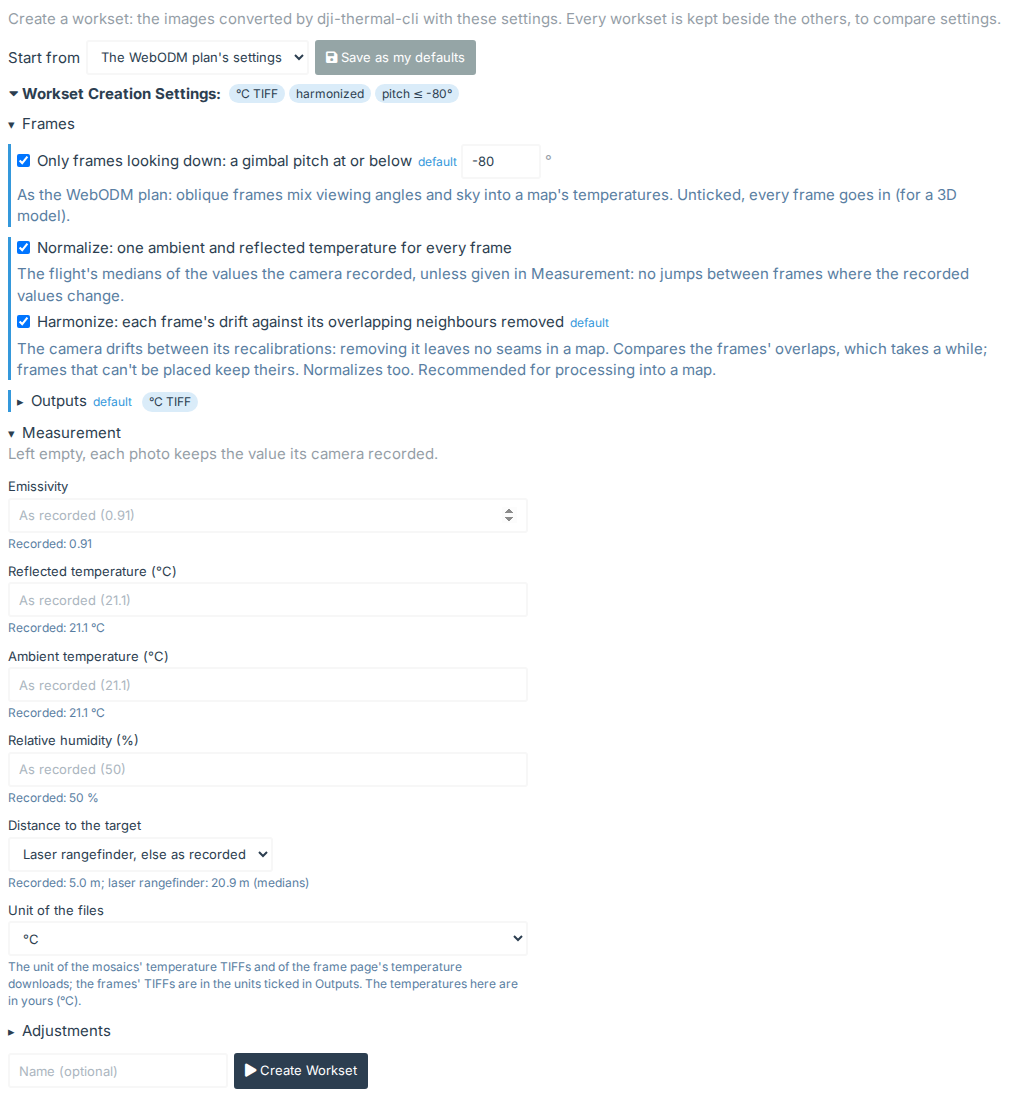
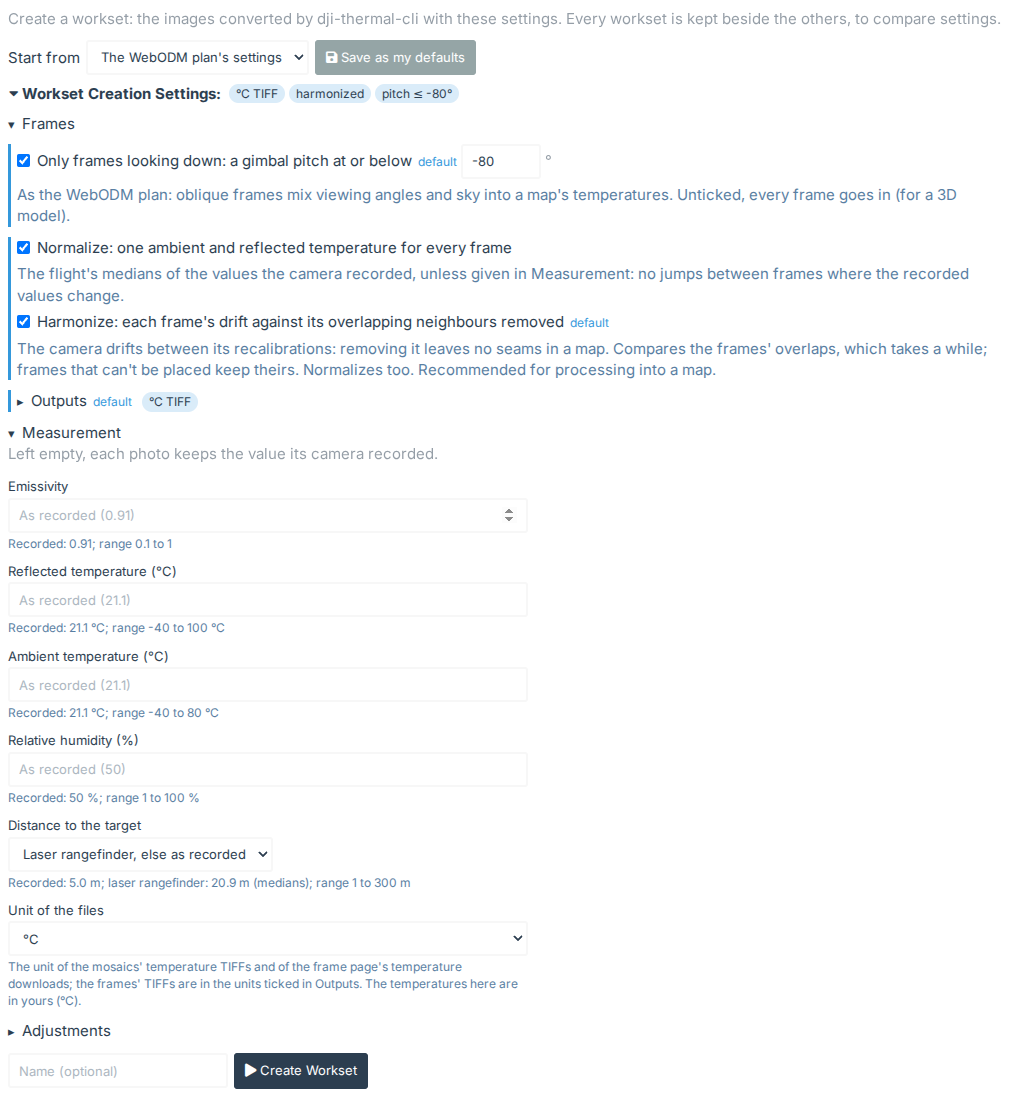
Workset Creation Settings: the cameras' ranges shown, and a value outside them refused before converting (R30)
A distance past a camera's range (500 m on an M4T, 1 to 300 m) was accepted,
then dji-thermal-cli refused every frame. The dataset now carries the ranges
its cameras accept (one frame described per camera, the narrowest), the form
shows them beside each value and refuses on Create Workset, and the server
checks them when a workset or a thermal task's conversion starts.

diff --git a/dji-thermal/public/conversions.js b/dji-thermal/public/conversions.js
@@ -64,9 +64,40 @@
         return blank(v) ? "Not recorded" : "Recorded: " + core.formatNumber(v, digits === undefined ? 1 : digits, unit || "");
     }
 
+    // The settings the photos' cameras give a range for (the server's conversions.RANGED), and their names
+    var RANGED = [["distance", "Distance to the target"]].concat(MEASUREMENTS.map(function (m) { return [m.key, m.label]; }));
+    // A setting's range as the frames' cameras accept it (ranges: the dataset's, temperatures in °C), in unit (a
+    // temperature's; the user's when not given): "1 to 300 m", "-40 to 100 °C"; "" without one
+    function rangeText(key, ranges, unit) {
+        var r = (ranges || {})[key];
+        if (!r) return "";
+        var m = MEASUREMENTS.filter(function (x) { return x.key === key; })[0] || {};
+        if (m.temperature) {
+            var to = unit || core.userUnit();
+            return num(core.convertTemp(r[0], "C", to), 1) + " to " + num(core.convertTemp(r[1], "C", to), 1) + " " + core.unitSymbol(to);
+        }
+        return num(r[0], 2) + " to " + num(r[1], 2) + (key === "distance" ? " m" : m.unit ? " " + m.unit : "");
+    }
+
+    // The first measurement value (settings as read, in their unit) outside what the frames' cameras accept, in words:
+    // dji-thermal-cli would refuse every frame of those cameras; null when all are in range or there are no ranges
+    function rangeProblem(s, ranges) {
+        for (var i = 0; i < RANGED.length; i++) {
+            var key = RANGED[i][0], r = (ranges || {})[key], v = s[key];
+            if (!r || typeof v !== "number") continue;
+            var m = MEASUREMENTS.filter(function (x) { return x.key === key; })[0] || {};
+            var c = m.temperature ? core.convertTemp(v, s.unit || "C", "C") : v;
+            if (c < r[0] - 1e-6 || c > r[1] + 1e-6) {
+                return RANGED[i][1] + " is outside what the photos' cameras accept: " + rangeText(key, ranges) + ".";
+            }
+        }
+        return null;
+    }
+
     // The settings form, its temperatures in the user's unit. meta: {products, palettes}; rec: recorded(analysis), in °C
-    function formHtml(s, meta, rec) {
+    function formHtml(s, meta, rec, ranges) {
         rec = rec || {};
+        var withRange = function (text, key) { var r = rangeText(key, ranges); return r ? text + "; range " + r : text; };
         var unit = core.unitOf(s.unit || core.userUnit()), u = core.unitSymbol(core.userUnit());
         var shown = settingsIn(s, unit, core.userUnit());
         TEMPERATURES.forEach(function (k) { if (typeof shown[k] === "number") shown[k] = Math.round(shown[k] * 100) / 100; });
@@ -93,13 +124,13 @@
                 var sel = fixed ? m[0] === "fixed" : m[0] === s.distance;
                 return '<option value="' + m[0] + '"' + (sel ? " selected" : "") + ">" + esc(m[1]) + "</option>";
             }).join("") + "</select>" + numberInput("distance", fixed ? s.distance : "", ' step="0.1" min="0.1" placeholder="m"' + (fixed ? "" : " hidden")) +
-            "</div>", esc(distanceHelp));
+            "</div>", esc(withRange(distanceHelp, "distance")));
         var measurement = MEASUREMENTS.map(function (m) {
                 var hint = m.temperature ? core.convertTemp(rec[m.hint], "C") : rec[m.hint];
                 var label = m.label + (m.temperature ? " (" + u + ")" : m.unit ? " (" + m.unit + ")" : "");
                 var placeholder = blank(hint) ? "As recorded" : "As recorded (" + core.formatNumber(hint, m.digits === undefined ? 1 : m.digits) + ")";
                 return field(label, numberInput(m.key, s[m.key], ' step="' + (m.step || "any") + '" placeholder="' + esc(placeholder) + '"'),
-                    esc(recordedText(hint, m.digits, m.temperature ? " " + u : m.unit ? " " + m.unit : "")));
+                    esc(withRange(recordedText(hint, m.digits, m.temperature ? " " + u : m.unit ? " " + m.unit : ""), m.key)));
             }).join("") + distance +
             field("Unit of the files", '<select class="form-control input-sm" name="unit">' + ["C", "F", "K"].map(function (k) {
                 return '<option value="' + k + '"' + (k === unit ? " selected" : "") + ">" + UNIT_LABELS[k] + "</option>";
@@ -903,7 +934,7 @@
         function renderForm() {
             var form = root$("ta-convert-form");
             var sections = built ? [].map.call(form.querySelectorAll("details.ta-section"), function (d) { return d.open; }) : null;
-            form.innerHTML = formHtml(settings, meta, recorded(dataset && dataset.analysis));
+            form.innerHTML = formHtml(settings, meta, recorded(dataset && dataset.analysis), dataset && dataset.ranges);
             drawnWith = dataset && dataset.analyzed_at;
             if (sections) [].forEach.call(form.querySelectorAll("details.ta-section"), function (d, i) { d.open = sections[i]; });
             var from = root$("ta-convert-from");
@@ -1406,7 +1437,8 @@
 
         root$("ta-convert-start").addEventListener("click", function () {
             var s = readForm(root$("ta-convert-form"));
-            if (formProblem(s)) return message(esc(formProblem(s)), "text-danger");
+            var problem = formProblem(s) || rangeProblem(s, dataset && dataset.ranges);
+            if (problem) return message(esc(problem), "text-danger");
             var btn = root$("ta-convert-start");
             btn.disabled = true;
             send(base.replace(/\/$/, ""), "POST", {name: root$("ta-convert-name").value.trim(), settings: s})
@@ -1625,7 +1657,7 @@
         return {update: update, usePlan: usePlan, useSettings: useSettings};
     }
 
-    var api = {recorded: recorded, settingsIn: settingsIn, formHtml: formHtml, readForm: readForm, formProblem: formProblem, planSettings: planSettings, statusLabel: statusLabel,
+    var api = {recorded: recorded, settingsIn: settingsIn, formHtml: formHtml, readForm: readForm, formProblem: formProblem, rangeProblem: rangeProblem, rangeText: rangeText, planSettings: planSettings, statusLabel: statusLabel,
                differences: differences, chipsHtml: chipsHtml, markForm: markForm, resetSetting: resetSetting,
                mosaicHtml: mosaicHtml, mapUrl: mapUrl, actionsHtml: actionsHtml, listHtml: listHtml, mosaicsHtml: mosaicsHtml, mosaicDetailHtml: mosaicDetailHtml, parentHtml: parentHtml, taskStatusLabel: taskStatusLabel, tasksHtml: tasksHtml,
                taskHtml: taskHtml, readTaskForm: readTaskForm, optionsFormHtml: optionsFormHtml, readOptions: readOptions, skipReasons: skipReasons, resultRows: resultRows, resultsHtml: resultsHtml,

diff --git a/dji-thermal/public/__tests__/analyzer.test.js b/dji-thermal/public/__tests__/analyzer.test.js
@@ -1530,6 +1530,26 @@ describe("a dataset's conversions", () => {
         expect(conversions.formProblem(Object.assign({}, read, {range_max: null}))).toMatch(/colour range/);
     });
 
+    it("shows the range the frames' cameras accept beside each value, and refuses one outside it before asking the server", () => {
+        const ranges = {distance: [1, 300], humidity: [1, 100], emissivity: [0.1, 1], reflected_temp: [-40, 100], ambient_temp: [-40, 80]};
+        document.body.innerHTML = '<div id="f">' + conversions.formHtml(DEFAULTS, PREFERENCES, {}, ranges) + "</div>";
+        const text = document.getElementById("f").textContent;
+        expect(text).toContain("range 1 to 300 m");
+        expect(text).toContain("range -40 to 80 °C");
+        expect(text).toContain("range 0.1 to 1");
+        window.localStorage.setItem("unit_system", "imperial");
+        expect(conversions.rangeText("ambient_temp", ranges)).toBe("-40 to 176 °F");
+        window.localStorage.clear();
+        const s = Object.assign({}, DEFAULTS, {unit: "C"});
+        expect(conversions.rangeProblem(Object.assign({}, s, {distance: 300}), ranges)).toBe(null);
+        expect(conversions.rangeProblem(Object.assign({}, s, {distance: 500}), ranges))
+            .toBe("Distance to the target is outside what the photos' cameras accept: 1 to 300 m.");
+        // Temperatures in the settings' unit: 194 °F is 90 °C
+        expect(conversions.rangeProblem(Object.assign({}, s, {unit: "F", ambient_temp: 194}), ranges)).toMatch(/^Ambient temperature is outside/);
+        expect(conversions.rangeProblem(Object.assign({}, s, {distance: 500}), {})).toBe(null);
+        expect(conversions.rangeProblem(Object.assign({}, s, {distance: 500}), undefined)).toBe(null);
+    });
+
     it("reads Harmonize as Normalize too, and a workset saved before Harmonize existed as harmonized when it normalized", () => {
         document.body.innerHTML = '<div id="f">' + conversions.formHtml(Object.assign({}, DEFAULTS, {harmonize: true}), PREFERENCES, {}) + "</div>";
         expect(conversions.readForm(document.getElementById("f"))).toMatchObject({normalize: true, harmonize: true});

diff --git a/dji-thermal/conversions.py b/dji-thermal/conversions.py
@@ -18,6 +18,7 @@ images. DJI's own SDK measures them when one is
 installed (sdk.current()).
 """
 
+import functools
 import math
 import os
 import shutil
@@ -304,6 +305,63 @@ def flight_medians(root, jpegs):
             if recorded.get(k) is not None:
                 v.append(float(recorded[k]))
     return tuple(float(statistics.median(v)) if v else None for v in values.values())
+
+
+RANGED = ('distance', 'humidity', 'emissivity', 'reflected_temp', 'ambient_temp')     # converter.describe's names
+
+
+@functools.lru_cache(maxsize=32)
+def _camera_ranges(root, stamp, paths):
+    found = {}
+    for path in paths:
+        try:
+            info = converter.describe(os.path.join(root, path))
+        except Exception:  # noqa: BLE001, S112 - a frame it can't read: its camera left out, as converting skips it
+            continue
+        for name, (low, high) in info['ranges'].items():
+            if name in RANGED:
+                was = found.get(name)
+                found[name] = [max(was[0], low), min(was[1], high)] if was else [float(low), float(high)]
+    return found
+
+
+def camera_ranges(task):
+    """
+    The values every camera of the dataset's thermal frames accepts, as its analysis lists them: {setting: [lowest,
+    highest]} (the narrowest when there are several cameras; temperatures in °C), one frame described per camera; {}
+    before an analysis. A setting no camera uses is left out.
+    """
+    rows = (datasets.analysis(task) or {}).get('files') or []
+    first = {}
+    for r in rows:
+        if r.get('kind') == 'thermal' and r.get('path'):
+            first.setdefault((r.get('model'), r.get('width'), r.get('height')), r['path'])
+    if not first:
+        return {}
+    return dict(_camera_ranges(datasets.images_path(task), datasets.analysis_stamp(task), tuple(sorted(first.values()))))
+
+
+def range_errors(settings, ranges):
+    """{setting: message} for the measurement values outside what the cameras accept (camera_ranges): dji-thermal-cli
+    would refuse every frame of those cameras. The message gives the range in the settings' unit."""
+    from .inspector import to_celsius
+    unit = settings.get('unit') or 'C'
+    errors = {}
+    for name in RANGED:
+        value, limits = settings.get(name), ranges.get(name)
+        if not limits or not isinstance(value, (int, float)) or isinstance(value, bool):
+            continue
+        celsius = to_celsius(float(value), unit) if name in TEMPERATURES else float(value)
+        if limits[0] - 1e-6 <= celsius <= limits[1] + 1e-6:
+            continue
+        low, high = limits
+        if name in TEMPERATURES:
+            shown = {'C': (low, high), 'F': (low * 1.8 + 32, high * 1.8 + 32), 'K': (low + 273.15, high + 273.15)}[unit]
+            text = "{:g} to {:g} {}".format(round(shown[0], 2), round(shown[1], 2), {'C': '°C', 'F': '°F', 'K': 'K'}[unit])
+        else:
+            text = "{:g} to {:g}{}".format(low, high, {'distance': ' m', 'humidity': ' %'}.get(name, ''))
+        errors[name] = "Outside what the photos' cameras accept: {}".format(text)
+    return errors
 
 
 def compact(report, root, out_dir, version="", thermal=None, damaged=None):

diff --git a/dji-thermal/tests/test_analyzer.py b/dji-thermal/tests/test_analyzer.py
@@ -671,6 +671,26 @@ class TestConversions(AnalyzerTestCase):
         self.assertIn("emissivity", res.data)
         self.assertEqual(conversions.ids(task), [])
 
+    @skip_without("DJI_THERMAL_FLIGHT_DIR")
+    def test_a_value_the_frames_cameras_refuse_starts_no_workset_and_the_dataset_says_their_ranges(self):
+        task = self.create()
+        with contextlib.ExitStack() as stack:
+            self.upload(task, [stack.enter_context(open(f, "rb")) for f in flight_frames(2)])
+        self.assertEqual(conversions.camera_ranges(task), {})       # before the analysis: nothing to check against
+        self.client.post("{}/{}/analyze".format(API, task.id))
+        ranges = self.client.get("{}/{}".format(API, task.id)).data["ranges"]
+        self.assertEqual(ranges["distance"], [1.0, 300.0])           # the M4T's
+        self.assertEqual(ranges["ambient_temp"], [-40.0, 80.0])
+        res = self.convert(task, {"distance": 500})
+        self.assertEqual(res.status_code, status.HTTP_400_BAD_REQUEST)
+        said = res.data["distance"]
+        self.assertEqual(str(said[0] if isinstance(said, list) else said), "Outside what the photos' cameras accept: 1 to 300 m")
+        self.assertEqual(conversions.ids(task), [])
+        # A temperature, in the settings' unit: 90 °C is 194 °F, above the M4T's 80 °C
+        errors = conversions.range_errors({"unit": "F", "ambient_temp": 194.0, "distance": 300.0}, ranges)
+        self.assertEqual(errors, {"ambient_temp": "Outside what the photos' cameras accept: -40 to 176 °F"})
+        self.assertEqual(conversions.range_errors({"unit": "C", "distance": "lrf", "humidity": None}, ranges), {})
+
     def test_a_conversion_of_no_thermal_image_fails_with_each_images_reason(self):
         task = self.create()
         self.upload(task, [jpeg("DJI_0001_V.JPG")])

diff --git a/dji-thermal/analyzer_api.py b/dji-thermal/analyzer_api.py
@@ -141,6 +141,8 @@ def detail(task, user, known_analysis=None):
     # What the conversions' settings are compared against, to list what each one changed
     out['defaults'] = conversions.DEFAULTS
     out['product_names'] = conversions.PRODUCT_NAMES
+    # The values the frames' cameras accept, for the Workset Creation Settings
+    out['ranges'] = conversions.camera_ranges(task)
     if out['can_change']:
         out['sharing'] = datasets.sharing(task.project)
     return out
@@ -574,6 +576,7 @@ class ConversionListCreate(DatasetView):
         if datasets.over_quota(task):
             raise ValidationError({'error': OVER_QUOTA})
         settings, errors = conversions.parse_settings(request.data.get('settings'))
+        errors = errors or conversions.range_errors(settings, conversions.camera_ranges(task))
         if errors:
             raise ValidationError(errors)
         cid = conversions.create(task, conversion_name(request, task), settings, request.user)

diff --git a/dji-thermal/api.py b/dji-thermal/api.py
@@ -233,6 +233,7 @@ class TaskWorkset(APIView):
         if sent.get('max_pitch') not in (None, ''):
             raw['max_pitch'] = sent['max_pitch']
         settings, errors = conversions.parse_settings(raw)
+        errors = errors or conversions.range_errors(settings, conversions.camera_ranges(task))
         if errors:
             raise exceptions.ValidationError(detail=errors)
         conversion_tasks.set_task_palette(task, settings.get('palette'))

diff --git a/upcoming-changes.md b/upcoming-changes.md
@@ -20,6 +20,18 @@
   the earlier "Folder conversion" item (below).
 
 **Done**
+- **R30. Out-of-range values refused before a workset starts** — 2026-11-13, `r30-workset-ranges` (the user: "Yes",
+  asked after R27 found the gap). A distance (or emissivity, humidity, reflected or ambient temperature) outside what
+  a camera accepts, typed in the Workset Creation Settings, was taken (the server only checked 0.1 to 1000 m), then
+  dji-thermal-cli refused every frame of that camera ("refused: distance=500 is outside [1, 300]"). The DJI Thermal
+  Task panel already checked the cameras' ranges, the frame page's Measure again refuses with the SDK's message, and
+  the rangefinder's own distance is clamped with a note. Now: `conversions.camera_ranges` (one frame described per
+  camera of the dataset's analysis, the narrowest range; cached by the analysis' stamp) and `range_errors`, checked
+  when a workset or a thermal task's conversion starts (`analyzer_api.py`, `api.py`), and sent with the dataset
+  (`ranges`); the form (`public/conversions.js` `rangeText`, `rangeProblem`) shows each field's range and refuses
+  on Create Workset. Before an analysis there are no ranges and nothing is checked (as before). Tests: Django
+  `TestConversions.test_a_value_the_frames_cameras_refuse_...`, Jest "shows the range the frames' cameras accept...".
+  Docs: README, `docs/quickstart-worksets.md`, the `workset-settings` screenshot.
 - **R27. The distance setting** — 2026-11-13, `r27-distance-docs`: not a bug; the docs now explain it. A user
   reported that with the recorded 5 m their temperatures matched a weather station, while with the rangefinder's
   distance or 20, 100 or 200 m they all read much lower. Measured on an M4T frame: the plugin (dji-thermal-cli 1.12.0)

diff --git a/README.md b/README.md
@@ -230,8 +230,9 @@ The sections, in the order of the work:
   flight's medians) and **Harmonize** (also each frame's drift against its overlapping neighbours removed).
 - **Outputs**: temperature TIFFs in °C, °F or K, pseudo-colour PNGs, gray16, raw counts, DJI R-JPEGs and the others
   dji-thermal-cli writes, their compression, and whether to build the mosaics.
-- **Measurement**: each parameter, with the flight's recorded median beside it (left empty, each image keeps its
-  own), in your unit, and the unit of the files (the mosaics' and the frame page's downloads'; each frame's TIFFs are
+- **Measurement**: each parameter, with the flight's recorded median and the range its cameras accept beside it
+  (left empty, each image keeps its own; a value outside the range, which the SDK would refuse for every frame, is
+  refused before the workset starts), in your unit, and the unit of the files (the mosaics' and the frame page's downloads'; each frame's TIFFs are
   in the units ticked in Outputs).
 - **Colours**, shown once a colour or 16-bit grey output is ticked: the palette and colour range of the pictures.
 - **Adjustments**: gimbal overrides, temperatures above or below a threshold replaced, the location stripped.

diff --git a/docs/quickstart-worksets.md b/docs/quickstart-worksets.md
@@ -25,7 +25,9 @@ The settings are in sections, in the order of the work:
 - **Outputs**: which files to write (temperature TIFFs in °C, °F or K, colour PNGs, 16-bit grey, DJI R-JPEGs and
   others), their compression, and whether to build mosaics.
 - **Measurement**: the values the temperatures are computed with, in your unit. Left empty, each photo keeps its
-  recorded value; the recorded median shows under each field. **Unit of the files** sets the mosaics' unit and the
+  recorded value; the recorded median and the range the photos' cameras accept show under each field (the narrowest
+  range when the photos come from several cameras, once the dataset is analyzed). A value outside the range would be
+  refused for every frame, so **Create Workset** says so and doesn't start. **Unit of the files** sets the mosaics' unit and the
   frame page's downloads'. See [Measurement settings](measurement.md).
 - **Colours**, once a colour or 16-bit grey output is ticked: the palette and colour range of those pictures.
 - **Adjustments**: gimbal angle overrides, temperatures above or below a threshold replaced, and the location and
